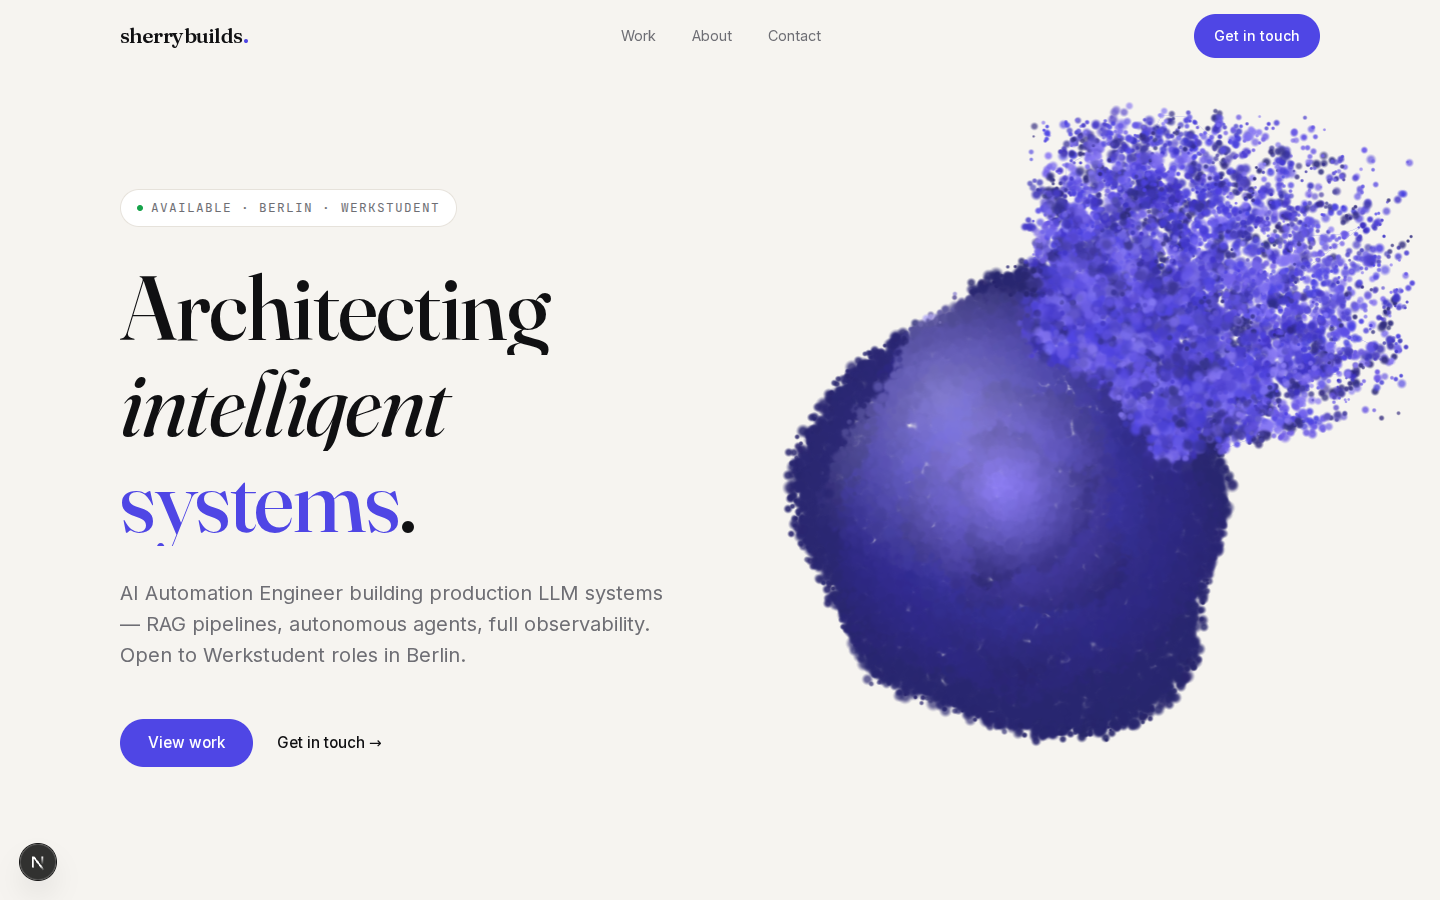
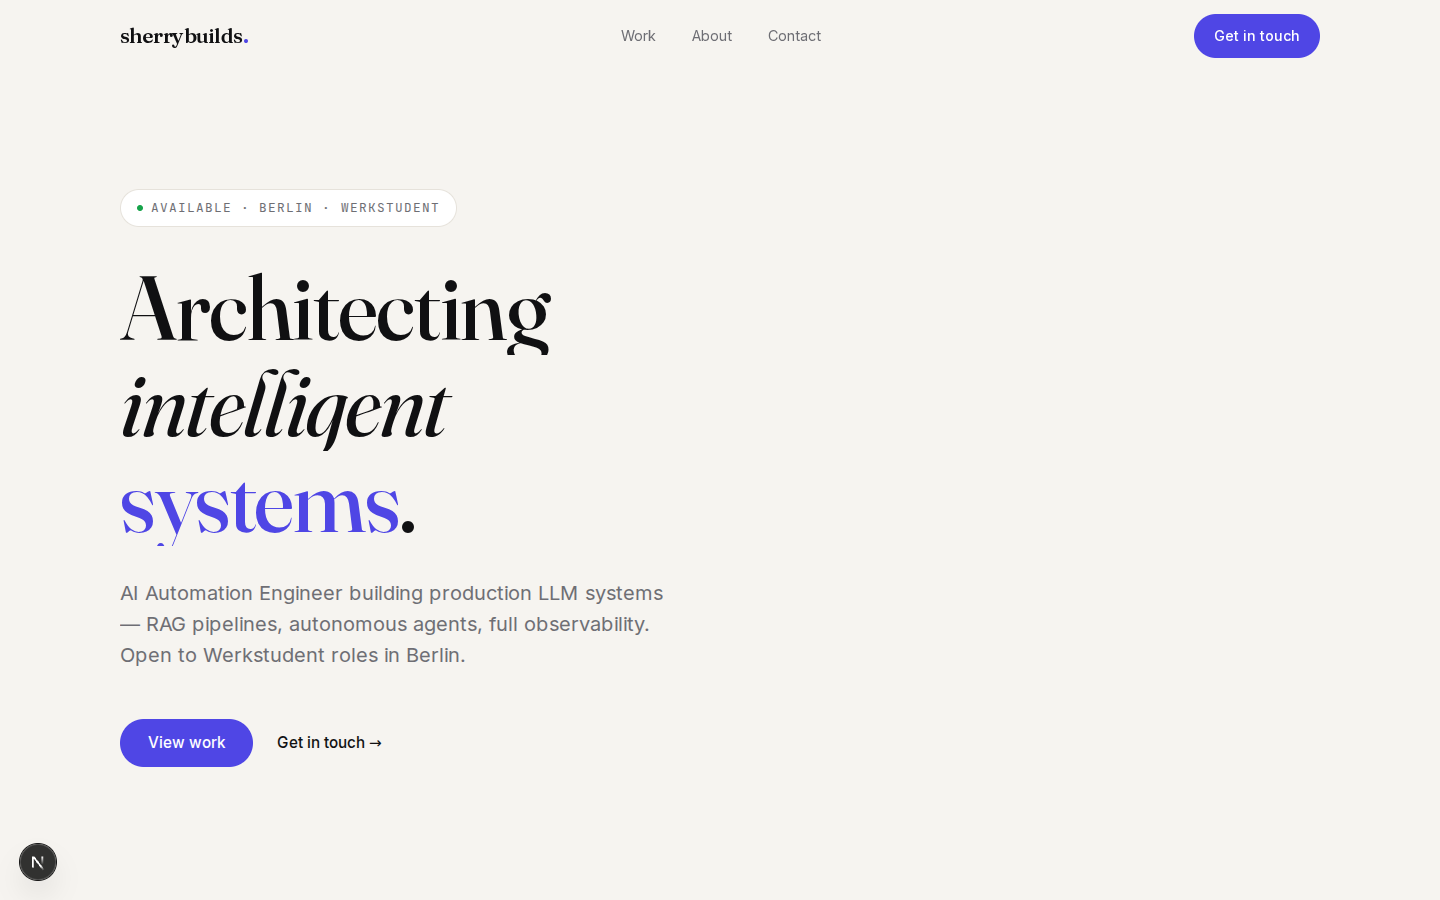
refactor(portfolio): type-only hero — remove particle object from layout
HeroParticles.tsx stays in the repo (unused) for possible later use;
hero is now pure editorial type on the cream background.

diff --git a/src/components/portfolio/Hero.tsx b/src/components/portfolio/Hero.tsx
@@ -1,11 +1,8 @@
 "use client";
 
-import dynamic from "next/dynamic";
 import { useRef } from "react";
 import { gsap, useGSAP, EASE, STAGGER } from "@/lib/gsap";
 import MorphWord from "./MorphWord";
-
-const HeroParticles = dynamic(() => import("./HeroParticles"), { ssr: false });
 
 export default function Hero() {
   const scope = useRef<HTMLElement>(null);
@@ -26,18 +23,12 @@ export default function Hero() {
             { autoAlpha: 0, y: 18 },
             { autoAlpha: 1, y: 0, duration: 0.6, stagger: STAGGER },
             "-=0.55"
-          )
-          .fromTo(
-            ".hero-object",
-            { autoAlpha: 0 },
-            { autoAlpha: 1, duration: 1.1 },
-            0.35
           );
       });
 
       mm.add("(prefers-reduced-motion: reduce)", () => {
         gsap.set(
-          [".hero-line-inner", ".hero-chip", ".hero-sub", ".hero-ctas", ".hero-object"],
+          [".hero-line-inner", ".hero-chip", ".hero-sub", ".hero-ctas"],
           { autoAlpha: 1, y: 0, yPercent: 0 }
         );
       });
@@ -51,15 +42,6 @@ export default function Hero() {
       ref={scope}
       className="relative flex min-h-[100svh] items-center overflow-hidden"
     >
-      {/* Hero object — right zone on desktop, quiet backdrop on mobile */}
-      <div
-        className="hero-object pointer-events-none absolute inset-0 opacity-45 lg:pointer-events-auto lg:left-auto lg:right-0 lg:w-[54%] lg:opacity-100"
-        data-reveal=""
-        aria-hidden="true"
-      >
-        <HeroParticles />
-      </div>
-
       <div className="relative z-10 mx-auto w-full max-w-[80rem] px-6 lg:px-10">
         <div className="grid grid-cols-12">
           <div
